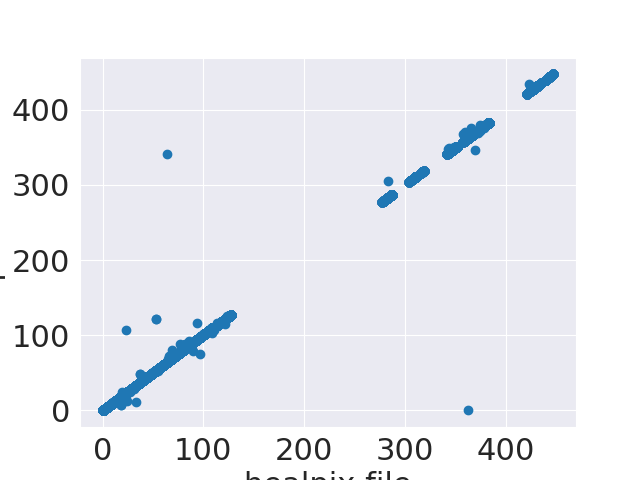
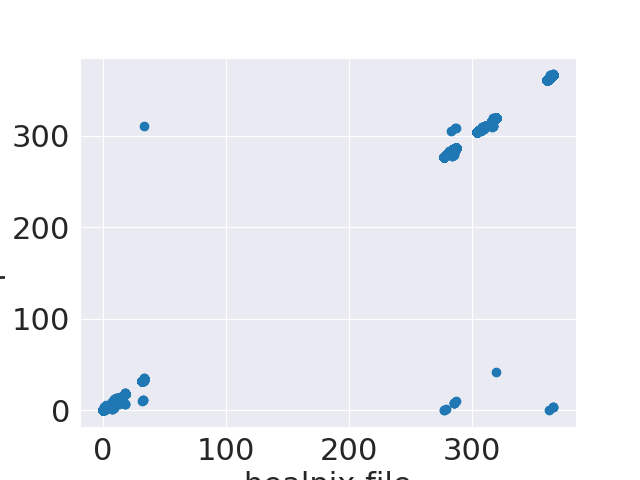
patch of the sky

diff --git a/buzzardSelection/scripts/helper.py b/buzzardSelection/scripts/helper.py
@@ -11,7 +11,7 @@ from astropy.io import fits as pyfits
 
 from astropy.cosmology import FlatLambdaCDM
 from astropy import units as u
-import esutil
+from scipy.interpolate import interp1d
 
 import dask
 from joblib import Parallel, delayed
@@ -77,11 +77,11 @@ def get_mask(f,mask):
     fits.close()
     return w
 
-def remove_outlier(x):
+def remove_outlier(x,ns=1.5):
     p16,p84 = np.percentile(x,[16,84])
     iqr = p84-p16
-    nh = p84+2.5*iqr
-    nl = p16-2.5*iqr
+    nh = p84+ns*iqr
+    nl = p16-ns*iqr
     w, = np.where((x>=nl)&(x<=nh))
     return w
 
@@ -246,10 +246,10 @@ def get_random_selection(cat2,Nsize=3000):
     cat3 = Table.from_pandas(test_set)
     return cat3
 
-def get_high_mass_selection(cat2,Nsize=1000,nbins=25):
-    Nsize+= 1200
+def get_high_mass_selection(cat2,Nsize=1000,nbins=25,h=0.7):
+    Nsize+= 1000
 
-    M200 = cat2["M200"]
+    M200 = cat2["M200"]*h
     Mh = M200[cat2["M200"]>=5e13]
     z  = cat2['Z']
     df = cat2.to_pandas()
@@ -350,12 +350,15 @@ class get_galaxy_sample:
         self.hpx_radec= self.cat['hpx8_radec'][:]
 
         self.t0 = time()
-        print('Healpix %i \n'%(hpx))
+        print('\n')
+        print(10*'---')
+        print('Healpix %i'%(hpx))
         
     def get_healpix_neighbours(self,nside=8):
         _hpx_neighbours = get_healpix_list(self.cat[self.indices],nside=8)
-        hpx_neighbours = np.array([self.match_healpix_to_file(hi) for hi in _hpx_neighbours])
+        hpx_neighbours = _hpx_neighbours#np.array([self.match_healpix_to_file(hi) for hi in _hpx_neighbours])
         self.hpx_neighbours = hpx_neighbours[np.logical_not(np.isnan(hpx_neighbours))].astype(np.int64)
+        print('hpx neighbours size: %i'%len(hpx_neighbours))
     
     def load_files(self,base,amagMax=-18.):
         #print('starting load_files()')
@@ -368,16 +371,14 @@ class get_galaxy_sample:
 
         t0= time()
         g = loadfiles(self.files,mask=mag_mask,columns=colnames)
-        print('loading time: %.2f s \n'%(time()-t0))
+        load_time = (time()-t0)/60
+        print('loading time: %.2f s \n'%(load_time))
 
         return g
 
-    def load_files_gcr(self,catalog,columns,amagMax=-18.):
+    def load_files_gcr(self,catalog,columns,magMax=26):
         t0= time()
-        amag_cut = amagMax - 5*np.log10(h)
-        mag_mask = 'Mag_true_r_des_z01 < %.2f'%(amag_cut)
-        
-        data = catalog.get_quantities(columns,filters=[mag_mask,'mag_i_lsst < 28.'], native_filters=[(lambda x: np.in1d(x, self.hpx_neighbours), 'healpix_pixel')]) 
+        data = catalog.get_quantities(columns,filters=['mag_i_lsst <= %.2f'%(magMax)], native_filters=[(lambda x: np.in1d(x, self.hpx_neighbours), 'healpix_pixel')]) 
         print('loading time: %.2f s \n'%(time()-t0))
 
         data = Table(data)
@@ -389,12 +390,13 @@ class get_galaxy_sample:
 
         return data
 
-    def get_silver_sample(self,g):
+    def get_silver_sample(self,g,amagMax=-19.):
         #print('starting get_silver_sample()')
         hid_cls = np.unique(self.cat['HALOID'][self.indices])
-        hid_gal = g['HALOID']
-        
-        t0 = time()
+
+        amag_cut = esutil.numpy_util.where1( g['Mag_true_r_des_z01']<= (amagMax - 5*np.log10(h)) )
+        hid_gal = g['HALOID'][amag_cut]
+
         ### true members cut
         match = esutil.numpy_util.match(hid_cls,hid_gal)
         g_true_members = g[match[1]]
@@ -428,7 +430,6 @@ class get_galaxy_sample:
         match = esutil.numpy_util.match(gid,self.cat['HALOID'])
         self.cat['redshift'][match[1]] = Z[match[0]]
         self.cat['halo_mass'][match[1]]= m200[match[0]]
-        self.cat['R200'][match[1]]     = r200[match[0]]
 
     def compute_cluster_richness(self,gsilver,lcol='Mag_true_r_des_z01'):
         #print('starting compute_cluster_richness()')
@@ -650,3 +651,35 @@ def save_hdf5_output(gal,cat,outfile):
 
     dfc = cat.to_pandas()
     dfc.to_hdf(outfile, key='cluster', mode='a')
+
+def getMagLimModel(auxfile,zvec,dm=0):
+    '''
+    Get the magnitude limit for 0.4L*
+    
+    file columns: z, mag_lim_i, (g-r), (r-i), (i-z)
+    mag_lim = mag_lim + dm
+    
+    input: Galaxy clusters redshift
+    return: mag. limit for each galaxy cluster and for the r,i,z bands
+    output = [maglim_r(array),maglim_i(array),maglim_z(array)]
+    '''
+    annis=np.loadtxt(auxfile)
+    jimz=[i[0] for i in annis]  ## redshift
+    jimgi=[i[1] for i in annis] ## mag(i-band)
+    jimgr=[i[2] for  i in annis]## (g-r) color
+    jimri=[i[3] for i in annis] ## (r-i) color
+    jimiz=[i[4] for i in annis] ## (i-z) color
+    
+    interp_magi=interp1d(jimz,jimgi,fill_value='extrapolate')
+    interp_gr=interp1d(jimz,jimgr,fill_value='extrapolate')
+    interp_ri=interp1d(jimz,jimri,fill_value='extrapolate')
+    interp_iz=interp1d(jimz,jimiz,fill_value='extrapolate')
+
+    mag_i,color_ri,color_iz = interp_magi(zvec),interp_ri(zvec),interp_iz(zvec)
+    mag_r, mag_z = (color_ri+mag_i),(mag_i-color_iz)
+
+    maglim_r, maglim_i, maglim_z = (mag_r+dm),(mag_i+dm),(mag_z+dm)
+
+    magLim = np.array([maglim_r, maglim_i, maglim_z])
+    
+    return magLim.transpose()

diff --git a/buzzardSelection/scripts/getHalos.py b/buzzardSelection/scripts/getHalos.py
@@ -27,7 +27,7 @@ nprocess = 4
 
 #######
 rmax       = 4         ## maximum radius in Mpc
-zmin, zmax = 0.1, 1.0  ## for GC
+zmin, zmax = 0.1, 0.9  ## for GC
 MassCut    = 1e12      ## the low Mass cut
 Nside=1024
 h=0.7
@@ -50,17 +50,24 @@ indir         ='/global/project/projectdirs/des/jderose/Chinchilla/Herd/Chinchil
 files         = glob.glob(indir+'truth/Chinchilla-3_lensed_rs_shift_rs_scat_cam*')
 files_truth   = glob.glob(indir+'halos/Chinchilla-3_halos*')
 
-print('\n'.join(files[:5]))
+mag_file      = '/global/homes/j/jesteves/codes/buzzardAnalysis/buzzardSelection/scripts/files/annis_mags_04_Lcut.txt'
+
+# print('\n'.join(files[:5]))
 
 def split_text(infile):
     return int(infile.split('.')[-2])
 
+## select a patch of the sky; 0deg < dec <30 deg and 0 deg< RA< 60 deg
+rax= np.linspace(0,60.,200)
+dex= np.linspace(0,30.,200)
+ragrid, degrid = np.meshgrid(rax, dex)
+pixels = np.unique(radec_pix(ragrid,degrid,nside=8))
 healpix = np.array([split_text(infile) for infile in files])
-# w, = np.where(healpix<60)
 
-# files = [files[i] for i in w]
-
+w, = np.where(np.in1d(healpix,pixels))
+files = [files[i] for i in w]
 files.sort()
+
 #######
 #######
 def masking_duplicates(hid,z):
@@ -71,9 +78,9 @@ def masking_duplicates(hid,z):
     return mask
 
 # ####### only for tests purposes
-files = files[:5]
+#files = files[:25]
 
-######### Starting the Code #########
+######## Starting the Code #########
 print('loading dataset')
 t0 = time()
 colnames = ['ID', 'HALOID', 'RA', 'DEC', 'Z', 'OMAG', 'OMAGERR', 'AMAG', 'RHALO', 'CENTRAL','M200','R200','MAG_R']
@@ -94,12 +101,12 @@ print('# clusters:', ncls)
 
 ## random selection of halos with mass less than 5 x E13 Msun
 print('Selecting Silver Sample')
-mask = c['M200']<5e13
-cat_silver = get_random_selection(c[mask],Nsize=31000)
+mask = c['M200']*h<5e13
+cat_silver = get_random_selection(c[mask],Nsize=30500)
 
 ## uniform selection of halos with mass greater than 5 x E13 Msun
 print('Selecting Golden Sample')
-cat_golden = get_high_mass_selection(c,Nsize=Nhalos*1.2,nbins=20)
+cat_golden = get_high_mass_selection(c,Nsize=Nhalos,nbins=20,h=h)
 
 print('Mathching Sample')
 ## flag
@@ -124,18 +131,27 @@ ra,dec = catf['RA'], catf['DEC']
 hpx_map = make_hpx_map(ra,dec,Nside,hpx_file)
 hpx_values = np.array(hpx_map['hpx_value'])
 
-print('Computing Area Fraction')
-catf['area_frac'] = compute_area_fraction(catf,hpx_values,rmax=8,nside=Nside)
+# print('Computing Area Fraction')
+# catf['area_frac'] = compute_area_fraction(catf,hpx_values,rmax=8,nside=Nside)
+print('Computing magLim')
+z = catf['Z']
+magLim3 = getMagLimModel(mag_file,z,dm=2)
+catf['magLim'] = magLim3[:,1]                ##i-band
 
+
+print('Selectiong good halos')
 x1=catf['M200_old']
 x2=catf['M200']
 
 fresidual = np.log10(x1/(x2+1e-3))
-w = remove_outlier(fresidual)
+w = remove_outlier(fresidual,ns=1.5)
+
 #catfo= catf
 catf['bad']    = True
 catf['bad'][w] = False
 catf['hpx8_radec'] = radec_pix(catf['RA'],catf['DEC'],nside=8)
+
+print('Golden cluster sample size: %i'%(np.count_nonzero(catf['sample'][w])))
 
 ## spliting sample
 mask = catf['sample']
@@ -151,13 +167,14 @@ print('->',file_cls_out_all)
 cat_g.write(file_cls_out,format='fits',overwrite=True)
 catf.write(file_cls_out_all,format='fits',overwrite=True)
 
-tf = time()-t0
+tf = (time()-t0)/60
 print('Final time: %.1f'%(tf))
 
 ## testing plots
+nbad = np.logical_not(catf['bad'])
 plt.plot([5e12,3e15],[5e12,3e15],'k--')
 plt.scatter(catf['M200_old'],catf['M200'],alpha=0.2)
-plt.scatter(catf['M200_old'][w],catf['M200'][w],alpha=0.2,label='My Selection')
+plt.scatter(catf['M200_old'][nbad],catf['M200'][nbad],alpha=0.2,label='My Selection')
 plt.xscale('log')
 plt.yscale('log')
 plt.xlabel('M200m')
@@ -186,11 +203,12 @@ plt.savefig('healpix_map_halos.png')
 plt.clf()
 
 ### Distribution plot
-zcls = cat_g['Z']
-m200 = cat_g['M200B']
+nbad = np.logical_not(cat_g['bad'])
+zcls = cat_g['Z'][nbad]
+m200 = cat_g['M200'][nbad]*0.7
 
 plot_scatter_hist(zcls,np.log10(m200),ylabel=r'$\log(M_{halo})$')
 plt.savefig('halo_mass_redshift_distribution.png')
 
 
-plt.scatter(z,hid)
+# # # plt.scatter(z,hid)

diff --git a/buzzardSelection/scripts/getGalaxies.py b/buzzardSelection/scripts/getGalaxies.py
@@ -1,6 +1,7 @@
 #!/usr/bin/env python -W ignore::DeprecationWarning
 # Purpose: Take 3000 galaxy clusters from the Buzzard v2.0 catalog
 # This code is slow because it loads multiple times the same file but it prevents a memory issue
+# nohup python scripts/getGalaxies.py > log.out 2> log.err
 
 print('Importing')
 import glob
@@ -27,20 +28,28 @@ cinfile       = outdir+'buzzard_v2.0.0_halos_hod.fits'
 base          = indir + 'truth/Chinchilla-3_lensed_rs_shift_rs_scat_cam.%i.fits'
 
 ######### Starting the Code #########
-cat = Table(getdata(cinfile))
+data = Table(getdata(cinfile))
 
-#### Make cutout
+## Selection only good clusters within redshift < 0.9
+mask = np.logical_not(data['bad'])
+mask&= data['Z']<=0.9
+
+## selected cluster sample
+cat = data[mask]
+
+## Make a different aperture selection for gold/silver sample
 sample = cat['sample']
 nsample= np.logical_not(sample)
 
+r200   = cat['R200'][:]*0.7 ## Mpc
 DA     = AngularDistance(np.array(cat['Z']))
 
 cat['rmax'] = 0.
 cat['rmax'][sample]  = 60*(float(rmax)/DA[sample])*rad2deg ## arcmin
-cat['rmax'][nsample] = 60*(3./DA[nsample])*rad2deg ## arcmin
+cat['rmax'][nsample] = 60*(1.2*r200[nsample]/DA[nsample])*rad2deg ## arcmin
 
 ## for tests purpose
-#cat = cat[:3]
+# cat = cat[:3]
 
 #### healpix list
 hpx_list = np.unique(cat['hpx8'])
@@ -63,14 +72,14 @@ columns+= ['magerr_%s_des'%mag for mag in filters]
 # print('\n')
 
 # given a healpix
-for hpx in hpx_list:
+for hpx in hpx_list[:1]:
     gg = get_galaxy_sample(hpx,cat)
 
     ## find the healpix files around the cluster centers
     gg.get_healpix_neighbours()
 
-    ## load files within Mr<=-18
-    d = gg.load_files_gcr(catalog,columns,amagMax=-18.)
+    ## load files within mag_i<=25.6 (corresponds to +2 dmag at z=0.9) or Mr<=-18.4
+    d = gg.load_files_gcr(catalog,columns,magMax=25.6)
 
     ## get only true members for the silver cluster sample
     ds= gg.get_silver_sample(d)
